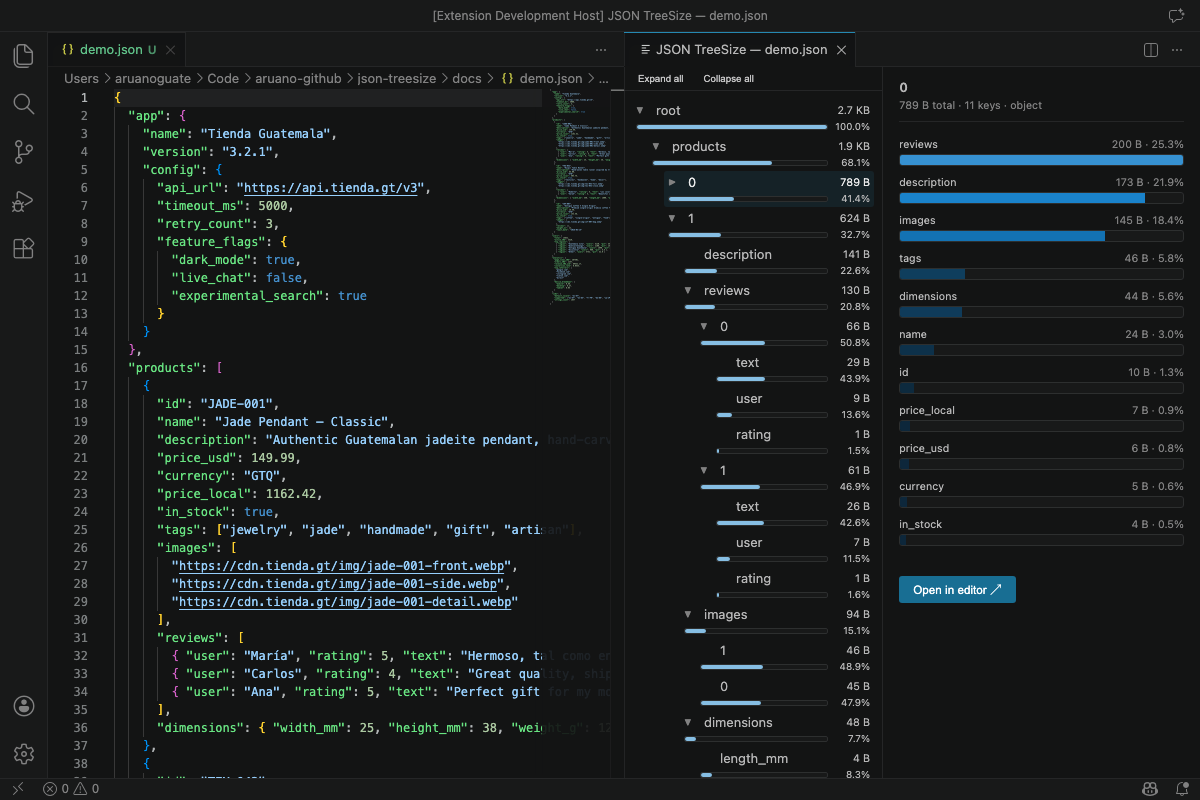
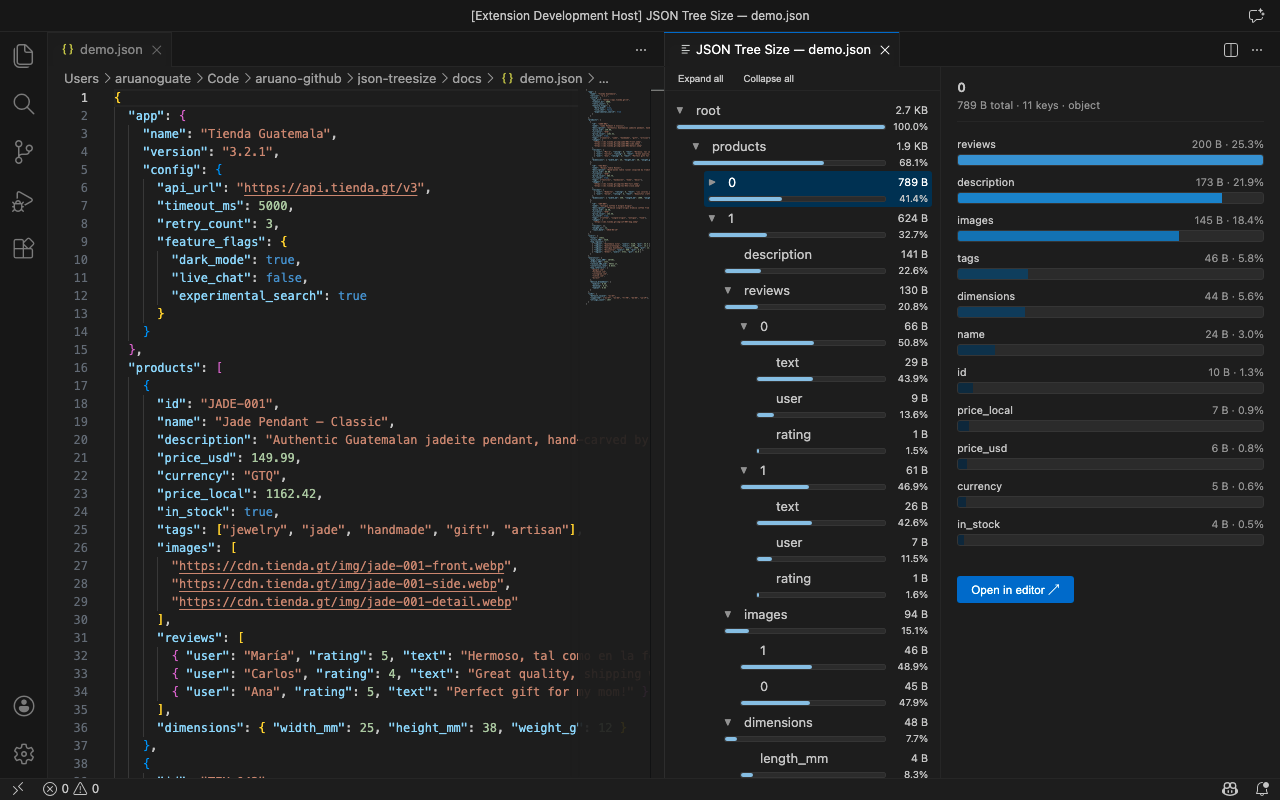
feat: enhance demo recording and GIF optimization features

diff --git a/scripts/demo/interaction.spec.ts b/scripts/demo/interaction.spec.ts
@@ -27,55 +27,95 @@ test('interaction demo', async ({}, testInfo) => {
       throw new Error('Tree Size panel did not appear');
     }
 
-    // Use evaluate() to interact with webview elements directly —
-    // VS Code nests webviews in multiple iframes, making Playwright's
-    // visibility-based clicks unreliable.
-    async function clickInFrame(selector: string, index = 0): Promise<boolean> {
-      return webviewFrame!.evaluate(({ sel, idx }) => {
-        const els = document.querySelectorAll(sel);
-        if (idx < els.length) {
-          (els[idx] as HTMLElement).click();
-          return true;
+    // Helper: click a visible tree row whose key text contains the given string.
+    // This is more reliable than index-based clicking since expanding nodes
+    // shifts indices. Returns true if a matching row was found and clicked.
+    async function clickTreeNodeByKey(keyText: string): Promise<boolean> {
+      return webviewFrame!.evaluate((text) => {
+        const rows = document.querySelectorAll('.tree-row');
+        for (const row of rows) {
+          // Only consider visible rows (not inside a hidden .tree-children)
+          const parent = row.closest('.tree-children');
+          if (parent && parent.classList.contains('hidden')) continue;
+          const keyEl = row.querySelector('.tree-key');
+          if (keyEl && keyEl.textContent?.includes(text)) {
+            (row as HTMLElement).click();
+            return true;
+          }
         }
         return false;
-      }, { sel: selector, idx: index });
+      }, keyText);
     }
 
-    // --- Tree exploration: click several nodes to show detail sync ---
+    // Helper: click a bar row in the detail pane by index
+    async function clickBarRow(index: number): Promise<boolean> {
+      return webviewFrame!.evaluate((idx) => {
+        const bars = document.querySelectorAll('.bar-row');
+        if (idx < bars.length) { (bars[idx] as HTMLElement).click(); return true; }
+        return false;
+      }, index);
+    }
+
+    // Helper: click a button by selector
+    async function clickButton(selector: string): Promise<boolean> {
+      return webviewFrame!.evaluate((sel) => {
+        const el = document.querySelector(sel);
+        if (el) { (el as HTMLElement).click(); return true; }
+        return false;
+      }, selector);
+    }
+
+    // Wait for the tree to fully render
     await webviewFrame.waitForSelector('.tree-row', { timeout: 10000 });
-    await clickInFrame('.tree-row', 0);
-    await window.waitForTimeout(1500);
-    await clickInFrame('.tree-row', 1);
-    await window.waitForTimeout(1500);
-    await clickInFrame('.tree-row', 2);
+    await window.waitForTimeout(1000);
+
+    // --- Step 1: Click "root" to show top-level breakdown in detail pane ---
+    await clickTreeNodeByKey('root');
     await window.waitForTimeout(1500);
 
-    // --- Expand all to reveal the full tree ---
-    await clickInFrame('#expand-all-btn');
+    // --- Step 2: Click "products" to expand it and show its breakdown ---
+    // (products is the largest node — detail pane will show 3 product items)
+    await clickTreeNodeByKey('products');
     await window.waitForTimeout(2000);
 
-    // Click deeper nodes after expanding
-    await clickInFrame('.tree-row', 5);
-    await window.waitForTimeout(1500);
-    await clickInFrame('.tree-row', 7);
+    // --- Step 3: Click the first product to drill deeper ---
+    // After expanding "products", its children (array items) are visible
+    await clickTreeNodeByKey('JADE-001');
+    await window.waitForTimeout(2000);
+
+    // --- Step 4: Click "reviews" inside the product to go one more level ---
+    await clickTreeNodeByKey('reviews');
+    await window.waitForTimeout(2000);
+
+    // --- Step 5: Go back up — click "users" to show a different section ---
+    await clickTreeNodeByKey('users');
+    await window.waitForTimeout(2000);
+
+    // --- Step 6: Use Expand all to reveal the full tree ---
+    await clickButton('#expand-all-btn');
+    await window.waitForTimeout(2500);
+
+    // --- Step 7: Click a deeply nested node now visible ---
+    await clickTreeNodeByKey('analytics');
     await window.waitForTimeout(1500);
 
-    // --- Collapse all, then expand again to show the toggle ---
-    await clickInFrame('#collapse-all-btn');
-    await window.waitForTimeout(1500);
-    await clickInFrame('#expand-all-btn');
+    // --- Step 8: Collapse all, then expand again to show the toggle ---
+    await clickButton('#collapse-all-btn');
     await window.waitForTimeout(1500);
 
-    // --- Detail pane: click bars to show left↔right sync ---
-    await clickInFrame('.bar-row', 0);
+    // --- Step 9: Detail pane interaction — click bars to show left↔right sync ---
+    // First, click root to get bars for all top-level children
+    await clickTreeNodeByKey('root');
     await window.waitForTimeout(1200);
-    await clickInFrame('.bar-row', 1);
+    await clickBarRow(0); // largest child bar → highlights in tree
     await window.waitForTimeout(1200);
-    await clickInFrame('.bar-row', 2);
+    await clickBarRow(1); // second child bar
+    await window.waitForTimeout(1200);
+    await clickBarRow(2); // third child bar
     await window.waitForTimeout(1200);
 
-    // --- Open in editor: jump to source ---
-    await clickInFrame('.goto-btn');
+    // --- Step 10: Open in editor — jump to source ---
+    await clickButton('.goto-btn');
     await window.waitForTimeout(2500);
 
     await window.waitForTimeout(2000);

diff --git a/scripts/optimize-gif.ts b/scripts/optimize-gif.ts
@@ -2,7 +2,7 @@
  * Convert a screen recording (.mov, .mp4, .webm, .gif) to an optimized GIF.
  *
  * Usage:
- *   npx tsx scripts/optimize-gif.ts <input> [output] [--width 800] [--fps 12]
+ *   npx tsx scripts/optimize-gif.ts <input> [output] [--width 800] [--fps 12] [--trim-start 5]
  *
  * Requires: ffmpeg, gifsicle (brew install ffmpeg gifsicle)
  */
@@ -16,6 +16,7 @@ interface Options {
   output: string;
   width: number;
   fps: number;
+  trimStart: number;
 }
 
 function usage(): never {
@@ -23,8 +24,9 @@ function usage(): never {
   console.log('');
   console.log('  input   Screen recording (.mov, .mp4, .webm, .gif)');
   console.log('  output  Output path (default: docs/<input-basename>.gif)');
-  console.log('  --width Scale to this width in pixels (default: 800)');
-  console.log('  --fps   Frame rate (default: 12)');
+  console.log('  --width      Scale to this width in pixels (default: 800)');
+  console.log('  --fps        Frame rate (default: 12)');
+  console.log('  --trim-start Seconds to trim from the start (default: 0)');
   process.exit(1);
 }
 
@@ -33,12 +35,14 @@ function parseArgs(argv: string[]): Options {
   let output = '';
   let width = 800;
   let fps = 12;
+  let trimStart = 0;
 
   const args = argv.slice(2);
   for (let i = 0; i < args.length; i++) {
     switch (args[i]) {
-      case '--width': width = Number(args[++i]); break;
-      case '--fps':   fps = Number(args[++i]); break;
+      case '--width':      width = Number(args[++i]); break;
+      case '--fps':        fps = Number(args[++i]); break;
+      case '--trim-start': trimStart = Number(args[++i]); break;
       case '--help':  usage();
       default:
         if (!input) input = args[i];
@@ -54,7 +58,7 @@ function parseArgs(argv: string[]): Options {
     output = path.join('docs', `${basename}.gif`);
   }
 
-  return { input, output, width, fps };
+  return { input, output, width, fps, trimStart };
 }
 
 function requireCmd(cmd: string): void {
@@ -66,7 +70,7 @@ function requireCmd(cmd: string): void {
   }
 }
 
-function optimizeGif({ input, output, width, fps }: Options): void {
+function optimizeGif({ input, output, width, fps, trimStart }: Options): void {
   requireCmd('ffmpeg');
   requireCmd('gifsicle');
 
@@ -74,12 +78,15 @@ function optimizeGif({ input, output, width, fps }: Options): void {
   const palettePath = path.join(tmpDir, 'palette.png');
   const rawGifPath = path.join(tmpDir, 'raw.gif');
 
+  const trimLabel = trimStart > 0 ? `, trimming first ${trimStart}s` : '';
   try {
-    console.log(`→ Converting to GIF (${width}px wide, ${fps} fps)...`);
+    console.log(`→ Converting to GIF (${width}px wide, ${fps} fps${trimLabel})...`);
+
+    const ssArgs = trimStart > 0 ? ['-ss', String(trimStart)] : [];
 
     // Generate palette for better color quality
     execFileSync('ffmpeg', [
-      '-y', '-i', input,
+      '-y', ...ssArgs, '-i', input,
       '-vf', `fps=${fps},scale=${width}:-1:flags=lanczos,palettegen=stats_mode=diff`,
       '-loglevel', 'error',
       palettePath,
@@ -87,7 +94,7 @@ function optimizeGif({ input, output, width, fps }: Options): void {
 
     // Render GIF using the palette
     execFileSync('ffmpeg', [
-      '-y', '-i', input, '-i', palettePath,
+      '-y', ...ssArgs, '-i', input, '-i', palettePath,
       '-lavfi', `fps=${fps},scale=${width}:-1:flags=lanczos[v];[v][1:v]paletteuse=dither=sierra2_4a`,
       '-loglevel', 'error',
       rawGifPath,
@@ -96,7 +103,7 @@ function optimizeGif({ input, output, width, fps }: Options): void {
     const rawSize = fs.statSync(rawGifPath).size;
 
     console.log('→ Optimizing with gifsicle...');
-    execFileSync('gifsicle', ['-O3', '--lossy=80', rawGifPath, '-o', output], { stdio: 'inherit' });
+    execFileSync('gifsicle', ['-O3', '--lossy=120', rawGifPath, '-o', output], { stdio: 'inherit' });
 
     const finalSize = fs.statSync(output).size;
     const saved = Math.round(((rawSize - finalSize) / rawSize) * 100);

diff --git a/scripts/demo/helpers.ts b/scripts/demo/helpers.ts
@@ -42,10 +42,17 @@ export async function launchVSCode(videoDir: string): Promise<VSCodeInstance> {
     'workbench.colorTheme': 'Default Dark Modern',
     'workbench.layoutControl.enabled': false,
     'window.commandCenter': false,
+    // Match window size to the recording viewport to avoid gray bars
+    'window.newWindowDimensions': 'offset',
+    // Hide the Sign In / Accounts button in the title bar & activity bar
+    'workbench.accounts.experimental.showEntitlements': false,
+    'window.titleBarStyle': 'custom',
+    'workbench.activityBar.location': 'default',
     // Disable Copilot features to prevent its sidebar from auto-opening
     'github.copilot.enable': { '*': false },
     'github.copilot.editor.enableAutoCompletions': false,
     'chat.commandCenter.enabled': false,
+    'chat.agent.enabled': false,
   }, null, 2));
 
   const target = DEMO_JSON;
@@ -70,10 +77,33 @@ export async function launchVSCode(videoDir: string): Promise<VSCodeInstance> {
   });
 
   const window = await electronApp.firstWindow();
+
+  // Resize the VS Code window to exactly match the recording viewport
+  // to prevent gray bars on the edges of the GIF
+  const browserWindow = await electronApp.browserWindow(window);
+  await browserWindow.evaluate((win) => {
+    win.setSize(1280, 800);
+    win.center();
+  });
+
   await window.waitForTimeout(4000);
 
   // Close any secondary sidebar (Copilot Chat) and notification toasts
   await dismissUI(window);
+
+  // Hide the Sign In button from the title bar.
+  // Run repeatedly because VS Code may render it lazily after startup.
+  for (let attempt = 0; attempt < 3; attempt++) {
+    await window.evaluate(() => {
+      document.querySelectorAll('[class*="action-item"]').forEach(el => {
+        const text = el.textContent?.trim();
+        if (text && /sign\s*in/i.test(text)) {
+          (el as HTMLElement).style.display = 'none';
+        }
+      });
+    });
+    await window.waitForTimeout(500);
+  }
 
   return { electronApp, window };
 }

diff --git a/scripts/record-demos.ts b/scripts/record-demos.ts
@@ -88,6 +88,9 @@ for (const dir of dirs) {
     continue;
   }
 
+  // The screenshot spec produces a PNG, not a GIF — skip conversion
+  if (testName.includes('screenshot')) continue;
+
   let output: string;
   if (testName.includes('palette')) output = 'docs/demo-command-palette.gif';
   else if (testName.includes('interaction')) output = 'docs/demo-interaction.gif';
@@ -95,7 +98,7 @@ for (const dir of dirs) {
 
   console.log(`  Converting: ${testName} → ${output}`);
   execSync(
-    `npx tsx scripts/optimize-gif.ts "${path.join(dirPath, video)}" "${path.join(ROOT, output)}" --width 960 --fps 12`,
+    `npx tsx scripts/optimize-gif.ts "${path.join(dirPath, video)}" "${path.join(ROOT, output)}" --width 800 --fps 10 --trim-start 6`,
     { cwd: ROOT, stdio: 'inherit' },
   );
 }
